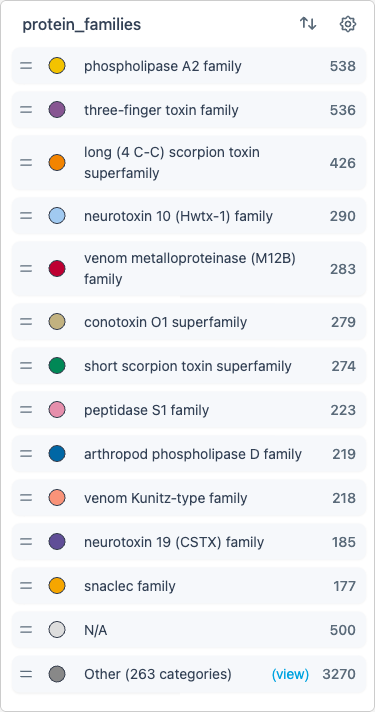
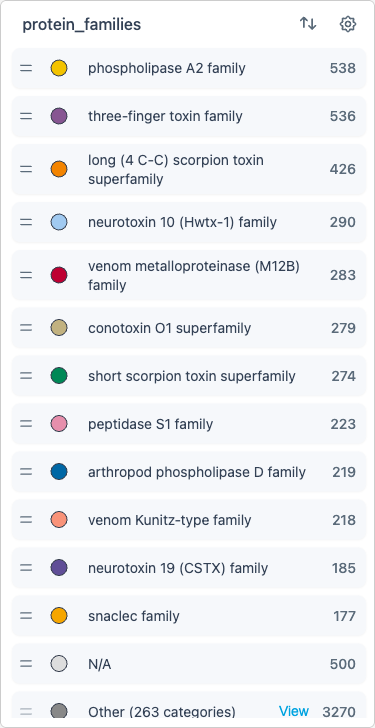
docs: update CLI guide, data prep docs, and regenerate screenshots (#200)
Rewrite python-cli.md around `protspace prepare` (replaces old
`protspace-query`/`protspace-local`), fix -f → -a annotation flag, add
LocalMAP, annotation groups, inline params, and embedder models section.
Update data-preparation.md with TED, Biocentral sources and LocalMAP.
Dismiss product tour in Playwright screenshot scripts so captures are
clean. Regenerate all 14 documentation images.

diff --git a/scripts/docs-screenshots/capture-animations.spec.ts b/scripts/docs-screenshots/capture-animations.spec.ts
@@ -3,6 +3,7 @@ import * as path from 'path';
 import * as fs from 'fs';
 import {
   TEMP_VIDEOS_DIR,
+  dismissProductTour,
   waitForDataLoad,
   waitForLegend,
   toggleLegendItem,
@@ -95,6 +96,7 @@ test.describe('Zoom Animation', () => {
 
   test.beforeEach(async ({ page }) => {
     await page.goto('/explore');
+    await dismissProductTour(page);
     await waitForDataLoad(page);
     await waitForLegend(page);
   });
@@ -185,6 +187,7 @@ test.describe('Zoom Animation', () => {
 test.describe('Scatterplot Animation Captures', () => {
   test.beforeEach(async ({ page }) => {
     await page.goto('/explore');
+    await dismissProductTour(page);
     await waitForDataLoad(page);
     await waitForLegend(page);
   });
@@ -514,6 +517,7 @@ test.describe('Scatterplot Animation Captures', () => {
 test.describe('Legend Animation Captures', () => {
   test.beforeEach(async ({ page }) => {
     await page.goto('/explore');
+    await dismissProductTour(page);
     await waitForDataLoad(page);
     await waitForLegend(page);
   });

diff --git a/scripts/docs-screenshots/helpers.ts b/scripts/docs-screenshots/helpers.ts
@@ -8,6 +8,20 @@ export const IMAGES_DIR = path.join(__dirname, '../../docs/explore/images');
 export const TEMP_VIDEOS_DIR = path.join(__dirname, '../../temp-videos');
 
 /**
+ * Dismiss the product tour by setting the localStorage flag that marks it as
+ * completed.  Must be called **after** `page.goto()` (so the origin is set)
+ * but **before** data finishes loading (which triggers the tour).
+ *
+ * A simple approach: navigate first, inject the key, then reload so the page
+ * starts fresh with the flag already in place.  Alternatively, call this
+ * right after goto and before waitForDataLoad — the tour checks localStorage
+ * synchronously before calling `driverObj.drive()`.
+ */
+export async function dismissProductTour(page: Page): Promise<void> {
+  await page.evaluate(() => localStorage.setItem('driver.overviewTour', 'true'));
+}
+
+/**
  * Wait for the scatterplot to finish loading data.
  * Waits for the data-loaded event and for points to be rendered.
  */

diff --git a/scripts/docs-screenshots/capture-static.spec.ts b/scripts/docs-screenshots/capture-static.spec.ts
@@ -3,6 +3,7 @@ import * as path from 'path';
 import * as fs from 'fs';
 import {
   IMAGES_DIR,
+  dismissProductTour,
   waitForDataLoad,
   waitForLegend,
   waitForStructureViewer,
@@ -60,6 +61,7 @@ async function waitForControlBar(
 test.describe('Interface Overview Screenshots', () => {
   test.beforeEach(async ({ page }) => {
     await page.goto('/explore');
+    await dismissProductTour(page);
     await waitForDataLoad(page);
     await waitForLegend(page);
     await waitForControlBar(page);
@@ -129,6 +131,7 @@ test.describe('Interface Overview Screenshots', () => {
 test.describe('Control Bar Screenshots', () => {
   test.beforeEach(async ({ page }) => {
     await page.goto('/explore');
+    await dismissProductTour(page);
     await waitForDataLoad(page);
     await waitForControlBar(page);
   });

diff --git a/docs/guide/python-cli.md b/docs/guide/python-cli.md
@@ -8,46 +8,69 @@ For local processing or automation, use the ProtSpace Python package.
 pip install protspace
 ```
 
-## Commands
+## Quick Start
 
-### From UniProt Query
+### From a UniProt Query
 
 ```bash
-protspace-query -q "(ft_domain:kinase) AND (reviewed:true)" -m pca2,umap2
+protspace prepare -q "(ft_domain:kinase) AND (reviewed:true)" -m pca2,umap2
 ```
 
-### From Your Own Embeddings
+### From Local Embeddings
 
 ```bash
-protspace-local -i embeddings.h5 -m pca2,umap2
+protspace prepare -i embeddings.h5 -m pca2,umap2
+```
+
+### From a FASTA File
+
+```bash
+protspace prepare -i sequences.fasta -e prot_t5 -m pca2,umap2
 ```
 
 ## Parameters
 
-Both commands share similar parameters. The key difference:
+| Parameter | Description                                                              |
+| --------- | ------------------------------------------------------------------------ |
+| `-q`      | UniProt query string                                                     |
+| `-i`      | Input file(s): HDF5 or FASTA (use `-i f.h5:name` to override model name) |
+| `-o`      | Output directory (default: `.`)                                          |
+| `-m`      | Projection methods (comma-separated or repeatable)                       |
+| `-a`      | Annotations: group names, individual names, or CSV path                  |
+| `-e`      | Embedder model shortcut (for FASTA input)                                |
+| `-s`      | Compute sequence similarity via MMseqs2                                  |
+| `-v`      | Verbosity (`-v` = INFO, `-vv` = DEBUG)                                   |
 
-- `protspace-query` uses `-q` to specify a UniProt query
-- `protspace-local` uses `-i` to specify an input embeddings file
+## Annotations
 
-| Parameter | Description                     | Command    |
-| --------- | ------------------------------- | ---------- |
-| `-q`      | UniProt query string            | query only |
-| `-i`      | Input embeddings (HDF5)         | local only |
-| `-o`      | Output directory                | both       |
-| `-m`      | Projection methods              | both       |
-| `-f`      | Annotations (names or CSV path) | both       |
-
-### Annotations
-
-Specify annotations with `-f`:
+Specify annotations with `-a`:
 
 ```bash
-# By name (auto-retrieved)
--f protein_family,reviewed,pfam,genus,species
+# Use a predefined group
+-a default        # EC, keyword, length, protein_families, reviewed
+-a all            # Everything from all sources
 
-# Or provide a CSV file
--f annotations.csv
+# Pick individual sources
+-a uniprot -a interpro -a taxonomy -a ted -a biocentral
+
+# Or pick individual annotation names
+-a protein_families,reviewed,pfam,genus,species
+
+# Or provide a CSV/TSV file
+-a annotations.csv
 ```
+
+**Available annotation groups:**
+
+| Group        | Source annotations                                                      |
+| ------------ | ----------------------------------------------------------------------- |
+| `default`    | EC, keyword, length, protein_families, reviewed                         |
+| `uniprot`    | Gene name, EC, GO terms, subcellular location, length, and more         |
+| `interpro`   | Pfam, CATH, SMART, CDD, Panther, Superfamily, and more                  |
+| `taxonomy`   | Kingdom, phylum, class, order, family, genus, species                   |
+| `ted`        | AlphaFold TED domain annotations                                        |
+| `biocentral` | Predicted membrane, signal peptide, transmembrane, subcellular location |
+| `all`        | All of the above                                                        |
 
 **CSV format:**
 
@@ -65,21 +88,40 @@ The `identifier` column must match protein IDs in your embeddings file.
 Methods require a dimension suffix: `2` for 2D, `3` for 3D.
 
 ::: warning Dimension Suffix Required
-Specify `pca2` or `pca3`, not `pca` alone - the dimension suffix is mandatory.
+Specify `pca2` or `pca3`, not `pca` alone — the dimension suffix is mandatory.
 :::
 
-| Method | 2D        | 3D        | Description                            |
-| ------ | --------- | --------- | -------------------------------------- |
-| PCA    | `pca2`    | `pca3`    | Principal Component Analysis           |
-| UMAP   | `umap2`   | `umap3`   | Uniform Manifold Approximation         |
-| t-SNE  | `tsne2`   | `tsne3`   | t-distributed Stochastic Neighbor Emb. |
-| PaCMAP | `pacmap2` | `pacmap3` | Pairwise Controlled Manifold Approx.   |
-| MDS    | `mds2`    | `mds3`    | Multidimensional Scaling               |
+| Method   | 2D          | 3D          | Description                            |
+| -------- | ----------- | ----------- | -------------------------------------- |
+| PCA      | `pca2`      | `pca3`      | Principal Component Analysis           |
+| UMAP     | `umap2`     | `umap3`     | Uniform Manifold Approximation         |
+| t-SNE    | `tsne2`     | `tsne3`     | t-distributed Stochastic Neighbor Emb. |
+| PaCMAP   | `pacmap2`   | `pacmap3`   | Pairwise Controlled Manifold Approx.   |
+| MDS      | `mds2`      | `mds3`      | Multidimensional Scaling               |
+| LocalMAP | `localmap2` | `localmap3` | Local-first alternative to PaCMAP      |
+
+You can customize parameters inline:
+
+```bash
+-m "umap2:n_neighbors=50;min_dist=0.1" -m "tsne2:perplexity=50"
+```
 
 ::: tip
-ProtSpace is optimized for 2D visualization - prefer `*2` methods over `*3`.
+ProtSpace is optimized for 2D visualization — prefer `*2` methods over `*3`.
 :::
+
+## Embedder Models
+
+When using a FASTA file as input, specify an embedder with `-e` to generate embeddings via the [Biocentral](https://biocentral.cloud) API:
+
+```bash
+protspace prepare -i sequences.fasta -e prot_t5 -m pca2,umap2
+```
+
+Available models: `prot_t5`, `prost_t5`, `esm2_8m`, `esm2_35m`, `esm2_150m`, `esm2_650m`, `esm2_3b`, `ankh_base`, `ankh_large`, `ankh3_large`, `esmc_300m`, `esmc_600m`
 
 ## More Info
 
-Find full docs and more examples on the [ProtSpace Python GitHub](https://github.com/tsenoner/protspace).
+The `protspace prepare` command is the recommended all-in-one pipeline. For advanced workflows, the CLI also provides individual subcommands: `embed`, `project`, `annotate`, `bundle`, `serve`, and `style`.
+
+Full CLI reference and advanced usage: [ProtSpace Python GitHub](https://github.com/tsenoner/protspace)

diff --git a/docs/guide/data-preparation.md b/docs/guide/data-preparation.md
@@ -9,7 +9,7 @@ The easiest way to prepare your data for ProtSpace - no local installation requi
 The Colab notebook converts protein embeddings into a visualization-ready `.parquetbundle` file:
 
 1. Reads your embeddings from an HDF5 file (.h5)
-2. Applies dimensionality reduction (PCA, UMAP, t-SNE, PaCMAP, MDS)
+2. Applies dimensionality reduction (PCA, UMAP, t-SNE, PaCMAP, MDS, LocalMAP)
 3. Retrieves annotations from UniProt, InterPro, and NCBI Taxonomy
 4. Creates the `.parquetbundle` file ready for ProtSpace
 
@@ -52,11 +52,13 @@ For advanced users with custom embeddings, save them as an HDF5 file where each 
 
 Choose which annotations to include from three sources:
 
-| Source       | Examples                                                  |
-| ------------ | --------------------------------------------------------- |
-| **UniProt**  | protein_families, ec, go_bp, cc_subcellular_location, ... |
-| **InterPro** | pfam, cath, panther, smart, superfamily, ...              |
-| **Taxonomy** | kingdom, phylum, class, order, family, genus, species     |
+| Source         | Examples                                                                                              |
+| -------------- | ----------------------------------------------------------------------------------------------------- |
+| **UniProt**    | protein_families, ec, go_bp, cc_subcellular_location, ...                                             |
+| **InterPro**   | pfam, cath, panther, smart, superfamily, ...                                                          |
+| **Taxonomy**   | kingdom, phylum, class, order, family, genus, species                                                 |
+| **TED**        | ted_domains (AlphaFold structure-based domain annotations)                                            |
+| **Biocentral** | predicted_subcellular_location, predicted_membrane, predicted_signal_peptide, predicted_transmembrane |
 
 See the [ProtSpace Python package](https://github.com/tsenoner/protspace) for the complete list of available annotations per source.
 
@@ -73,17 +75,19 @@ Choose which 2D projections to generate:
 - **t-SNE** - Great for clusters, slower on large datasets
 - **PaCMAP** - Alternative to t-SNE/UMAP
 - **MDS** - Preserves pairwise distances
+- **LocalMAP** - Local-first alternative to PaCMAP
 
 ### Parameters (Optional)
 
 Fine-tune settings for each method:
 
-| Method | Parameters                      |
-| ------ | ------------------------------- |
-| UMAP   | N Neighbors, Min Dist           |
-| t-SNE  | Perplexity, Learning Rate       |
-| PaCMAP | N Neighbors, MN Ratio, FP Ratio |
-| MDS    | N Init, Max Iter                |
+| Method   | Parameters                      |
+| -------- | ------------------------------- |
+| UMAP     | N Neighbors, Min Dist           |
+| t-SNE    | Perplexity, Learning Rate       |
+| PaCMAP   | N Neighbors, MN Ratio, FP Ratio |
+| MDS      | N Init, Max Iter                |
+| LocalMAP | N Neighbors, MN Ratio, FP Ratio |
 
 ## Step 4: Generate and Download
 
